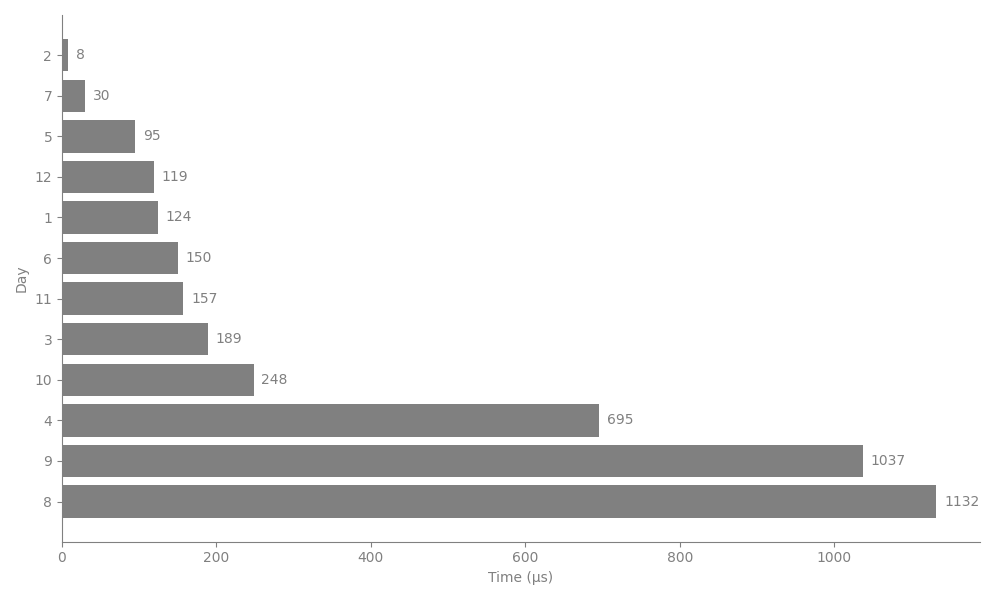
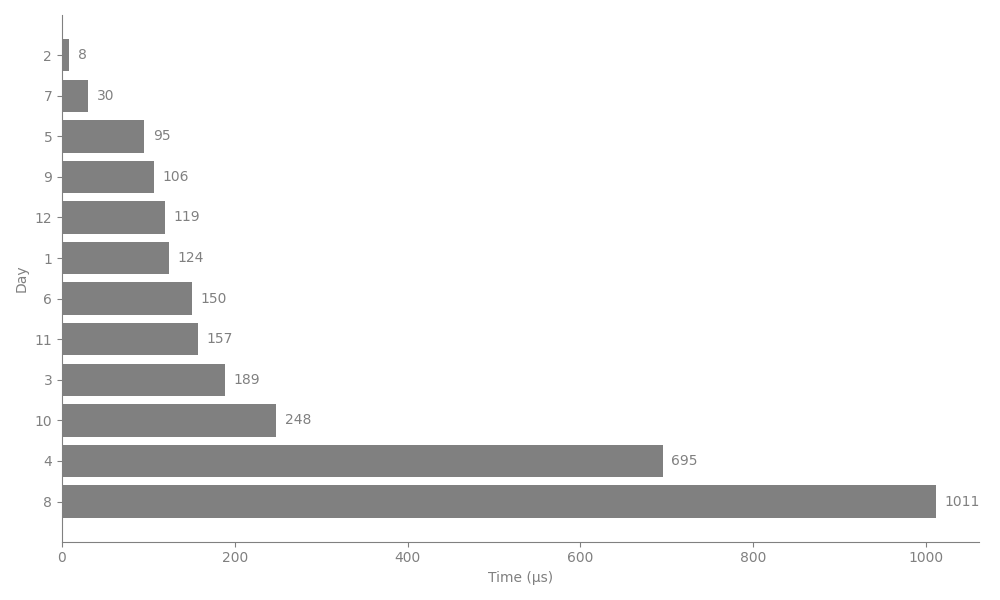
Update readme, rebench 2937us

diff --git a/2025/barchart.py b/2025/barchart.py
@@ -1,8 +1,8 @@
 import matplotlib.pyplot as plt
 
 # Data
-days = ["2", "7", "5", "12", "1", "6", "11", "3", "10", "4", "9", "8"]
-times = [8, 30, 95, 119, 124, 150, 157, 189, 248, 695, 1037, 1132]
+days = ["2", "7", "5", "9", "12", "1", "6", "11", "3", "10", "4", "8"]
+times = [8, 30, 95, 106, 119, 124, 150, 157, 189, 248, 695, 1011]
 
 # Colors and text color
 bar_color = "#808080"  # medium gray bars

diff --git a/2025/README.md b/2025/README.md
@@ -1,6 +1,6 @@
 # Summary
 
-This repository contains optimized solutions for Advent of Code 2025, implemented in [Go](https://en.wikipedia.org/wiki/Go_(programming_language)) with a focus on performance and educational value. The whole collection runs all days and all parts in less than 4 ms. Each day is solved in a single, dependency-free [Go](https://go.dev) file.
+This repository contains optimized solutions for Advent of Code 2025, implemented in [Go](https://en.wikipedia.org/wiki/Go_(programming_language)) with a focus on performance and educational value. The whole collection runs all days and all parts in less than 3 ms. Each day is solved in a single, dependency-free [Go](https://go.dev) file.
 
 ## Quick Navigation
 
@@ -64,21 +64,21 @@ This repository contains optimized solutions for Advent of Code 2025, implemente
 
 | Day                                | Time (μs) | % of Total  |
 | ---------------------------------- | --------: | ----------: |
-| [**2**](#day-2-gift-shop-)         |         8 |       0.20% |
-| [7](#day-7-laboratories-)          |        30 |       0.75% |
-| [5](#day-5-cafeteria-)             |        95 |       2.39% |
-| [12](#day-12-christmas-tree-farm-) |       119 |       2.99% |
-| [1](#day-1-secret-entrance-)       |       124 |       3.11% |
-| [6](#day-6-trash-compactor-)       |       150 |       3.77% |
-| [11](#day-11-reactor-)             |       157 |       3.94% |
-| [3](#day-3-lobby-)                 |       189 |       4.75% |
-| [10](#day-10-factory-)             |       248 |       6.23% |
-| [4](#day-4-printing-department-)   |       695 |      17.45% |
-| [9](#day-9-movie-theater-)         |     1,037 |      26.04% |
-| [8](#day-8-playground-)            |     1,132 |      28.43% |
-| **Total**                          | **3,984** | **100.00%** |
+| [**2**](#day-2-gift-shop-)         |         8 |       0.27% |
+| [7](#day-7-laboratories-)          |        30 |       1.02% |
+| [5](#day-5-cafeteria-)             |        95 |       3.24% |
+| [9](#day-9-movie-theater-)         |       106 |       3.61% |
+| [12](#day-12-christmas-tree-farm-) |       119 |       4.05% |
+| [1](#day-1-secret-entrance-)       |       124 |       4.22% |
+| [6](#day-6-trash-compactor-)       |       150 |       5.11% |
+| [11](#day-11-reactor-)             |       157 |       5.35% |
+| [3](#day-3-lobby-)                 |       189 |       6.44% |
+| [10](#day-10-factory-)             |       248 |       8.45% |
+| [4](#day-4-printing-department-)   |       695 |      23.67% |
+| [8](#day-8-playground-)            |     1,011 |      34.43% |
+| **Total**                          | **2,937** | **100.00%** |
 
-fastest of 100 runs for part1&2 in μs - mbair M1/16GB - darwin 24.6.0 - go1.25.3 darwin/arm64 with greentea GC - 2025-12
+fastest of 100 runs for input parsing and part1&2 in μs - mbair M1/16GB - darwin 24.6.0 - go1.25.3 darwin/arm64 with greentea GC - 2025-12
 
 ## Installation and benchmark [↑](#summary)
 
@@ -155,7 +155,7 @@ The password method <span title='CLICK'><code>0x434C49434B</code></span> actuall
 " width="60%" />
 </div>
 
-### Third Approach
+### Current Approach
 
 As AoC is a gathering, I usually keep a back channel open with my fellow programmer and friend **[hm](https://blog.izissise.net/)**. From the very beginning, he had been insisting on how fast the generation of the numbers we are tasked to find in today’s challenge could be. He was convinced from the start that, given their regular nature, they were natural candidates for efficient generation… and it turns out he was right.
 
@@ -469,7 +469,7 @@ The [solution](https://github.com/erik-adelbert/aoc/blob/main/2025/7/aoc7.go) ad
 
 The algorithm runs with `O(n)` time complexity, where *n* is the number of grid cells. Each row is processed exactly once, and for each row, we iterate through all possible path positions. The space complexity is `O(w)` for the paths array were *w* is the grid width, making it quite memory-efficient.
 
-It runs in under 1ms.
+It runs in under 1 ms.
 
 ## Day 8: [Playground](https://adventofcode.com/2025/day/8) [↑](#summary)
 
@@ -488,7 +488,9 @@ This greatly improves runtime because Kruskal’s algorithm—along with the ~~h
 
 `<EDIT>` I replaced the heap by a sort to make the code lighter and actually faster.
 
-The code runs in under `1.3ms`
+`<EDIT>` I went full AoC mode and broke the runtime barrier by embedding a canonical quicksort with [median-of-three](https://www.cs.princeton.edu/courses/archive/fall12/cos226/lectures/23Quicksort.pdf) pivot selection.
+
+The code runs in about 1 ms
 
 ## Why have I changed the timings? [↑](#summary)
 
@@ -525,6 +527,23 @@ go run ./aoc8.go < input.txt
 <div align="center">
   <img src="./images/industrial_compressor.jpg" alt="An industrial compressor in full, intricate detail. It is what it is, but this solution surely produces its fair share of gas." width="60%" />
 </div>
+
+### Current Approach
+
+[`/u/maneatingape`](https://www.reddit.com/user/maneatingape/) has came up with a beautiful [sweep line algorithm](https://en.wikipedia.org/wiki/Sweep_line_algorithm) to tackle today's problem. Given tile coordinates as input, we are tasked to find the largest axis-aligned rectangle, fully filled, and bounded by the input coordinates.
+
+The [sweep line](https://github.com/erik-adelbert/aoc/blob/main/2025/9/aoc9.go) keeps track and updates candidate rectangles as it processes the sorted points row by row:
+
+- For each row, it toggles the x-coordinates of the current row's points in a sorted edge list, then builds intervals from these edges.
+- It checks all the current candidate rectangles to see if they can be extended to the current row, updating the maximum area if so.
+- Candidate that are no longer valid (not covered by any current interval) are removed.
+- New candidates are started at each new edge in the current row.
+
+This approach ensures that all possible maximal rectangles are considered, but only those that can actually be extended are kept. It is so efficient!
+
+### First Approach
+
+**For the following discussion please checkout commit  [86d7495](https://github.com/erik-adelbert/aoc/blob/86d749573d2a292c3d1680906d7fddeb902b3863/2025/9/aoc9.go)**
 
 Today, we’re tackling the problem of finding the largest rectangle inside a rectilinear polyline. Suffice it to say, I’m not a big fan of this type of problem—these puzzles usually end up with a [solution](https://github.com/erik-adelbert/aoc/blob/main/2025/9/aoc9.go) that’s tedious, and today is no exception.
 
@@ -679,7 +698,7 @@ go clean
 rm -f aoc12
 ```
 
-My collection runs all problems for the entire edition in roughly `4ms`.
+My collection runs all problems for the entire edition in roughly `3ms`.
 
 ## How was it? [↑](#summary)
 
@@ -745,46 +764,48 @@ PS2. I have been [awarded](https://www.reddit.com/r/adventofcode/comments/1prrvf
 | 6   |       88 |
 | 11  |       94 |
 | 1   |      119 |
-| 8   |      142 |
-| 9   |      121 |
-| 2   |      255 |
+| 9   |      183 |
+| 8   |      184 |
 | 4   |      186 |
+| 2   |      255 |
 | 10  |      555 |
 
 ```bash
 ❯ cloc 1 2 3 4 5 6 7 8 9 10 11 12
       66 text files.
       56 unique files.
-      13 files ignored.
+      12 files ignored.
 
-github.com/AlDanial/cloc v 2.06  T=0.05 s (1134.5 files/s, 265457.7 lines/s)
+github.com/AlDanial/cloc v 2.06  T=0.05 s (1081.3 files/s, 256025.3 lines/s)
 -------------------------------------------------------------------------------
 Language                     files          blank        comment           code
 -------------------------------------------------------------------------------
 Text                            26             14              0           9903
-Go                              16            564            416           1806
-Markdown                        10             49              0            148
+Go                              16            586            446           1908
+Markdown                        10             48              0            149
 Python                           2             29             35            139
 make                             2              0              0              2
 -------------------------------------------------------------------------------
-SUM:                            56            656            451          11998
+SUM:                            56            677            481          12101
 -------------------------------------------------------------------------------
 ```
 
 ### Cyclomatic complexity over 10
 
 ```bash
-33 main min2D 10/aoc10.go:316:1
+❯ make cyclo
+33 main min2D 10/aoc10.go:319:1
 20 main main 4/aoc4.go:21:1
 19 main main 6/aoc6.go:23:1
 18 main main 11/aoc11.go:21:1
-17 main main 9/aoc9.go:13:1
-16 main fmbounds3D 10/aoc10.go:647:1
-14 main main 8/aoc8.go:25:1
-13 main hnf 10/aoc10.go:511:1
-12 main main 2/aoc2.go:24:1
-11 main fmbounds2D 10/aoc10.go:608:1
-Average: 5.29
+16 main fmbounds3D 10/aoc10.go:650:1
+14 main qsort3 8/aoc8.go:107:1
+14 main main 8/aoc8.go:24:1
+13 main hnf 10/aoc10.go:514:1
+12 main part2 9/aoc9.go:86:1
+11 main main 2/aoc2.go:24:1
+11 main fmbounds2D 10/aoc10.go:611:1
+Average: 4.97
 ```
 
 Day 10 is a major contributor in this table, and implementing [BLAS](https://en.wikipedia.org/wiki/Basic_Linear_Algebra_Subprograms) algorithms is certainly quite sophisticated. For instance, they are usually as huge (LOC-wise) as they are fast; this means that the code bails out at the first opportunity, leading to a mechanical increase in cyclomatic complexity. It’s no wonder the [simplex algorithm](https://en.wikipedia.org/wiki/Simplex_algorithm) of my first approach was rated 41. Implementing one is not easy and introduces challenges ranging from structural design to numerical instability. It’s a sophisticated technique developed in the mid-20th century that reached peak prominence in the late 1990s. With recent progress in applying [linear programming](https://en.wikipedia.org/wiki/Linear_programming) to AI, it’s seeing a revival in certain hybrid AI [planning](https://arxiv.org/abs/2509.21014) pipelines.
